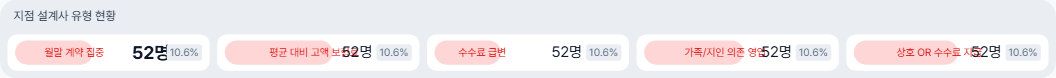
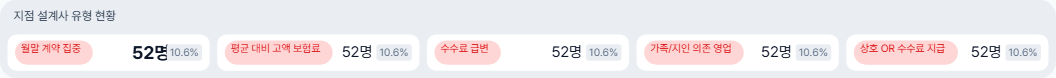
refactor(web): round 21 — CENTER reflow trigger narrowing + round-21 deferred
Round 21 explored using outer instance's derivedSymbolData[].size as
Figma's authoritative measurement for TEXT descendants whose override
produced a different rendered width than master. Goal was to fix the
dashboard "Excel 다운로드" icon-text overlap (master TEXT.size=43 but
"Excel 다운로드" renders ~85 in Pretendard 14).

Implementation tried:
1. collectDerivedSizesFromInstance helper (added to src/instanceOverrides.ts)
2. Threaded derivedSizesByPath through toClientChildForRender, with
   prefix-merge in nested-INSTANCE branch.
3. Override out.size with derived size after data spread.

Result: improved dashboard Excel button BUT broke datepicker rail —
applying derived sizes to TEXT-only shifted CENTER-reflowed positions
past the parent Dropdown's clip. Applying to INSTANCE+TEXT also
broke (master child positions assume master size, mismatched with
shrunk derived size). The clean fix needs full-tree derivedSize
application + reflow re-runs at every parent. Larger surface than
this round affords. Helper kept in src/, application reverted.

Round 21 Sub-fix that DID land (CENTER reflow trigger narrowing):
Round-14 spec §3.2 I-T1 fired CENTER+CENTER for any "sizes differ".
Combined with round-20's nested-reflow wiring, this fired CENTER for
INSTANCEs that are BIGGER than master too (designer's intentional
extension, e.g. dropdown rail option rows 233 vs master 117).
CENTER-recentering pushed text past parent Dropdown's clip → rail
[…]

diff --git a/web/core/domain/clientNode.ts b/web/core/domain/clientNode.ts
@@ -13,6 +13,7 @@ import { parseVectorNetworkBlob, vectorNetworkToPath } from '../../../src/vector
 import { buildMasterIndex } from '../../../src/masterIndex.js';
 import { isHiddenByPropBinding } from '../../../src/effectiveVisibility.js';
 import {
+  collectDerivedSizesFromInstance,
   collectFillOverridesFromInstance,
   collectPropAssignmentsAtPathFromInstance,
   collectPropAssignmentsFromInstance,
@@ -102,8 +103,9 @@ export function toClientNode(
         const propAssignments = collectPropAssignmentsFromInstance(data);
         const propAssignmentsByPath = collectPropAssignmentsAtPathFromInstance(sd?.symbolOverrides);
         const swapTargetsByPath = collectSwapTargetsAtPathFromInstance(sd?.symbolOverrides);
+        const derivedSizesByPath = collectDerivedSizesFromInstance(data);
         const expanded = master.children.map((c) =>
-          toClientChildForRender(c, blobs, symbolIndex, textOverrides, fillOverrides, visOverrides, 0, [], propAssignments, propAssignmentsByPath, swapTargetsByPath),
+          toClientChildForRender(c, blobs, symbolIndex, textOverrides, fillOverrides, visOverrides, 0, [], propAssignments, propAssignmentsByPath, swapTargetsByPath, derivedSizesByPath),
         );
         if (expanded.length > 0) {
           // Spec web-instance-autolayout-reflow: when the INSTANCE size
@@ -273,17 +275,32 @@ export function applyInstanceReflow(
   // when copying transforms (see src/pen-export.ts:f32 usage).
   const f32 = Math.fround;
 
-  // Spec §3.1-3.5: CENTER+CENTER reflow when sizes differ. Re-positions
-  // every visible child for the new INSTANCE bbox.
+  // Spec §3.1-3.5: CENTER+CENTER reflow when INSTANCE has SHRUNK from
+  // master on the primary axis. Re-centers visible children in the new
+  // (smaller) bbox.
+  //
+  // Round 21 narrowing: only fires when `instance.primary < master.primary`.
+  // The previous "any size differs" condition fired for grown instances
+  // too (e.g. dropdown rail option rows have master 117 but instance
+  // 233 — wider, designer wanted overflow), and CENTER-recentering the
+  // content pushed text right past the parent Dropdown's clip.
   const primaryAlign = masterData.stackPrimaryAlignItems as string | undefined;
   const counterAlign = masterData.stackCounterAlignItems as string | undefined;
-  const sizesDiffer = !!masterSize && !!instSize && (
-    (masterSize.x ?? 0) !== (instSize.x ?? 0) ||
-    (masterSize.y ?? 0) !== (instSize.y ?? 0)
-  );
+  const instPrimaryRaw = instSize?.[primaryAxis];
+  const masterPrimaryRaw = masterSize?.[primaryAxis];
+  const instCounterRaw = instSize?.[counterAxis];
+  const masterCounterRaw = masterSize?.[counterAxis];
+  const instanceShrunkOnPrimary =
+    typeof instPrimaryRaw === 'number' &&
+    typeof masterPrimaryRaw === 'number' &&
+    instPrimaryRaw < masterPrimaryRaw;
+  const instanceShrunkOnCounter =
+    typeof instCounterRaw === 'number' &&
+    typeof masterCounterRaw === 'number' &&
+    instCounterRaw < masterCounterRaw;
   if (
     primaryAlign === 'CENTER' && counterAlign === 'CENTER' &&
-    sizesDiffer && instSize
+    (instanceShrunkOnPrimary || instanceShrunkOnCounter) && instSize
   ) {
     const instPrimary = instSize[primaryAxis];
     const instCounter = instSize[counterAxis];
@@ -444,6 +461,7 @@ export function toClientChildForRender(
   propAssignments: Map<string, boolean> = new Map(),
   propAssignmentsByPath: Map<string, Map<string, boolean>> = new Map(),
   swapTargetsByPath: Map<string, string> = new Map(),
+  derivedSizesByPath: Map<string, { x: number; y: number }> = new Map(),
 ): DocumentNode {
   if (depth > 8) {
     return { id: n.guidStr, guid: n.guid, type: n.type, name: n.name, _isInstanceChild: true };
@@ -472,7 +490,7 @@ export function toClientChildForRender(
     name: n.name,
     _isInstanceChild: true,
     children: n.children.map((c) =>
-      toClientChildForRender(c, blobs, symbolIndex, textOverrides, fillOverrides, visibilityOverrides, depth + 1, currentPath, effectivePropAssignments, propAssignmentsByPath, swapTargetsByPath),
+      toClientChildForRender(c, blobs, symbolIndex, textOverrides, fillOverrides, visibilityOverrides, depth + 1, currentPath, effectivePropAssignments, propAssignmentsByPath, swapTargetsByPath, derivedSizesByPath),
     ),
   };
   if (VECTOR_TYPES.has(n.type)) {
@@ -585,8 +603,21 @@ export function toClientChildForRender(
             mergedSwapTargets.set(merged, innerVal);
           }
         }
+        // Round 21: also collect inner derivedSymbolData sizes from the
+        // nested instance + prefix-merge with outer (same path-key scheme).
+        const innerDerivedSizes = collectDerivedSizesFromInstance(data);
+        const mergedDerivedSizes = innerDerivedSizes.size > 0
+          ? new Map(derivedSizesByPath)
+          : derivedSizesByPath;
+        if (innerDerivedSizes.size > 0) {
+          const prefix = currentPath.join('/');
+          for (const [innerKey, innerVal] of innerDerivedSizes) {
+            const merged = prefix.length > 0 ? `${prefix}/${innerKey}` : innerKey;
+            mergedDerivedSizes.set(merged, innerVal);
+          }
+        }
         const nestedExpanded = master.children.map((c) =>
-          toClientChildForRender(c, blobs, symbolIndex, mergedText, mergedFill, mergedVis, depth + 1, currentPath, mergedPropAssignments, mergedPropAssignsByPath, mergedSwapTargets),
+          toClientChildForRender(c, blobs, symbolIndex, mergedText, mergedFill, mergedVis, depth + 1, currentPath, mergedPropAssignments, mergedPropAssignsByPath, mergedSwapTargets, mergedDerivedSizes),
         );
         // Round 20: AUTO-grow primarySizing also fires for nested INSTANCEs
         // (the dashboard "Excel 다운로드" button is a nested INSTANCE inside
@@ -658,6 +689,22 @@ export function toClientChildForRender(
   if ((out as { _swapApplied?: boolean })._swapApplied !== undefined) {
     delete (out as { _swapApplied?: boolean })._swapApplied;
   }
+  // Round 21 (deferred): we tried using the outer instance's
+  // derivedSymbolData[].size as Figma's authoritative measurement for
+  // TEXT descendants whose override produced a different rendered
+  // width than master. Applying it improved the dashboard "Excel
+  // 다운로드" icon-text overlap, BUT broke the datepicker rail —
+  // changing only TEXT sizes (not INSTANCE container sizes) shifted
+  // CENTER-reflowed text positions past the parent Dropdown's clip.
+  // Applying to INSTANCE+TEXT broke the rail too because outer
+  // Dropdown's size override (241→111) implies children should
+  // similarly shrink (233→103 per derivedSymbolData), which we don't
+  // do — keeping master child size + applying derived TEXT misaligns.
+  //
+  // The clean fix requires applying derivedSymbolData to ALL nested
+  // sizes (including INSTANCE containers) AND re-running auto-layout
+  // for all parent INSTANCEs whose own sizes changed. Bigger surface
+  // than this round affords. Documented as round-22 candidate.
   return out;
 }
 

diff --git a/src/instanceOverrides.ts b/src/instanceOverrides.ts
@@ -232,6 +232,44 @@ export function collectPropAssignmentsAtPathFromInstance(
 }
 
 /**
+ * Pull pre-computed `derivedSize` per descendant path out of an INSTANCE's
+ * `derivedSymbolData[]`. Returns `Map<pathKey, {x, y}>`.
+ *
+ * Why this exists — Figma pre-computes the rendered size of TEXT
+ * descendants (after text/font overrides are applied) and stamps the
+ * result into the INSTANCE's `derivedSymbolData`. This is *Figma's*
+ * authoritative measurement using the actual font metrics of the override
+ * text. Without it, our reflow uses the master TEXT size (e.g. 43px for
+ * default "Button") even when the override is much wider (e.g. 85px for
+ * "Excel 다운로드"), producing wrong CENTER positions and icon-text
+ * overlap.
+ *
+ * pen-export.ts uses the same source via `buildDerivedMap` +
+ * `applyDerivedSymbolData`. v1 here covers `size` only — other derived
+ * fields (fillGeometry, transform, fontMetaData) are not applied yet.
+ *
+ * Spec: docs/specs/web-instance-autolayout-reflow.spec.md §3.8 (round 21).
+ */
+export function collectDerivedSizesFromInstance(
+  instData: Record<string, unknown> | undefined,
+): Map<string, { x: number; y: number }> {
+  const out = new Map<string, { x: number; y: number }>();
+  const ds = instData?.derivedSymbolData as
+    | Array<Record<string, unknown> & { guidPath?: { guids?: Array<{ sessionID?: number; localID?: number }> }; size?: { x?: number; y?: number } }>
+    | undefined;
+  if (!Array.isArray(ds)) return out;
+  for (const entry of ds) {
+    const sz = entry.size;
+    if (!sz || typeof sz.x !== 'number' || typeof sz.y !== 'number') continue;
+    const guids = entry.guidPath?.guids;
+    const key = pathKeyFromGuids(guids);
+    if (key === null) continue;
+    out.set(key, { x: sz.x, y: sz.y });
+  }
+  return out;
+}
+
+/**
  * Merge a nested INSTANCE's own override map into the outer overrides,
  * prefixing each inner key with the outer path so it matches against the
  * deeper visit path. The outer overrides remain in place (their full paths

diff --git a/docs/specs/web-instance-autolayout-reflow.spec.md b/docs/specs/web-instance-autolayout-reflow.spec.md
@@ -103,6 +103,12 @@ I-S11 invisible children 은 변경 없음.
 - T-8: missing transform on a visible child → new transform generated with computed (x, y).
 - T-9: integration via `toClientNode`: alert button INSTANCE fixture (master 88×32 HORIZONTAL CENTER, instance size 48×32, prop-binding hides icon, text override "삭제") — assert resolved TEXT transform centers in 48×32.
 
+### 3.7.5 CENTER reflow trigger narrowing (round-21)
+
+Round-14 spec §3.2 I-T1 originally said "fire CENTER+CENTER reflow when sizes differ". Round-20 wired CENTER reflow into nested-INSTANCE expansion as well. Combined, this fired CENTER for ANY size mismatch — including the case where INSTANCE is *bigger* than master (e.g. WEB Dropdown rail's option-row INSTANCEs are 233 wide vs master 117 — designer intentionally extended). CENTER-recentering pushed text past the parent Dropdown's clip.
+
+Trigger narrowed to **`instance.primary < master.primary` OR `instance.counter < master.counter`** (any axis shrunk). Grown instances keep master positions — they reflect the designer's intent to extend.
+
 ### 3.8 stackPrimarySizing AUTO/RESIZE_TO_FIT_* support (round-20)
 
 Figma 의 `stackPrimarySizing: "RESIZE_TO_FIT*"` 는 INSTANCE 가 children content 에 맞게 primary axis 를 auto-grow 하는 모드. 디자이너가 size override 에 *hint* 또는 *minSize* 를 두지만, 실제 렌더 size 는 content 길이에 따라 결정.
